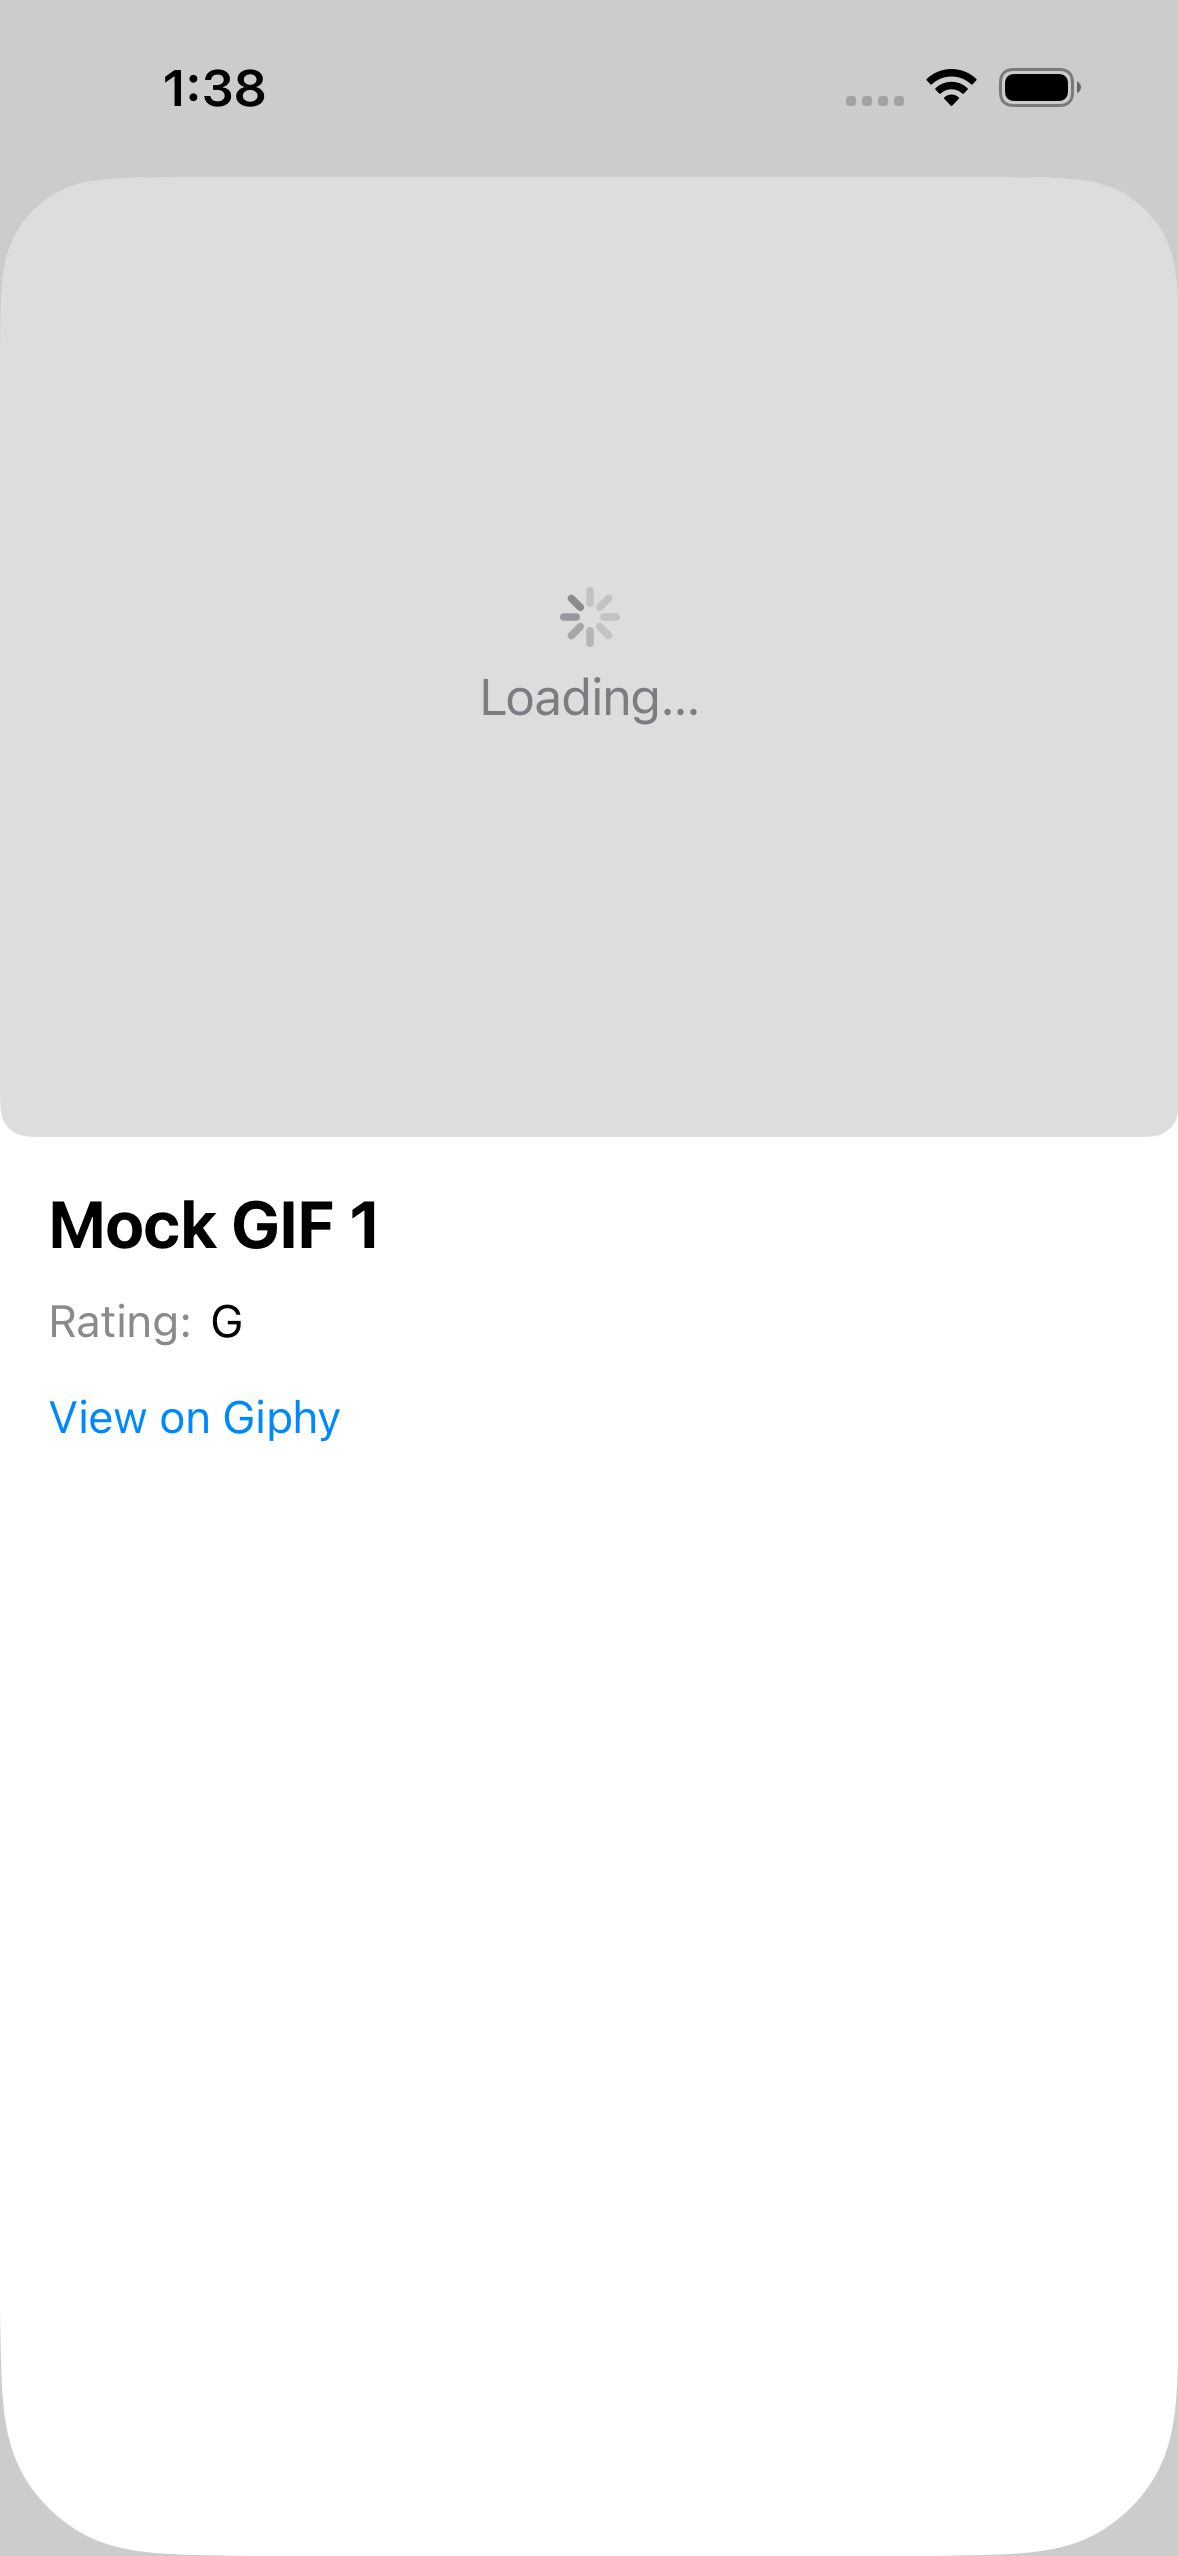
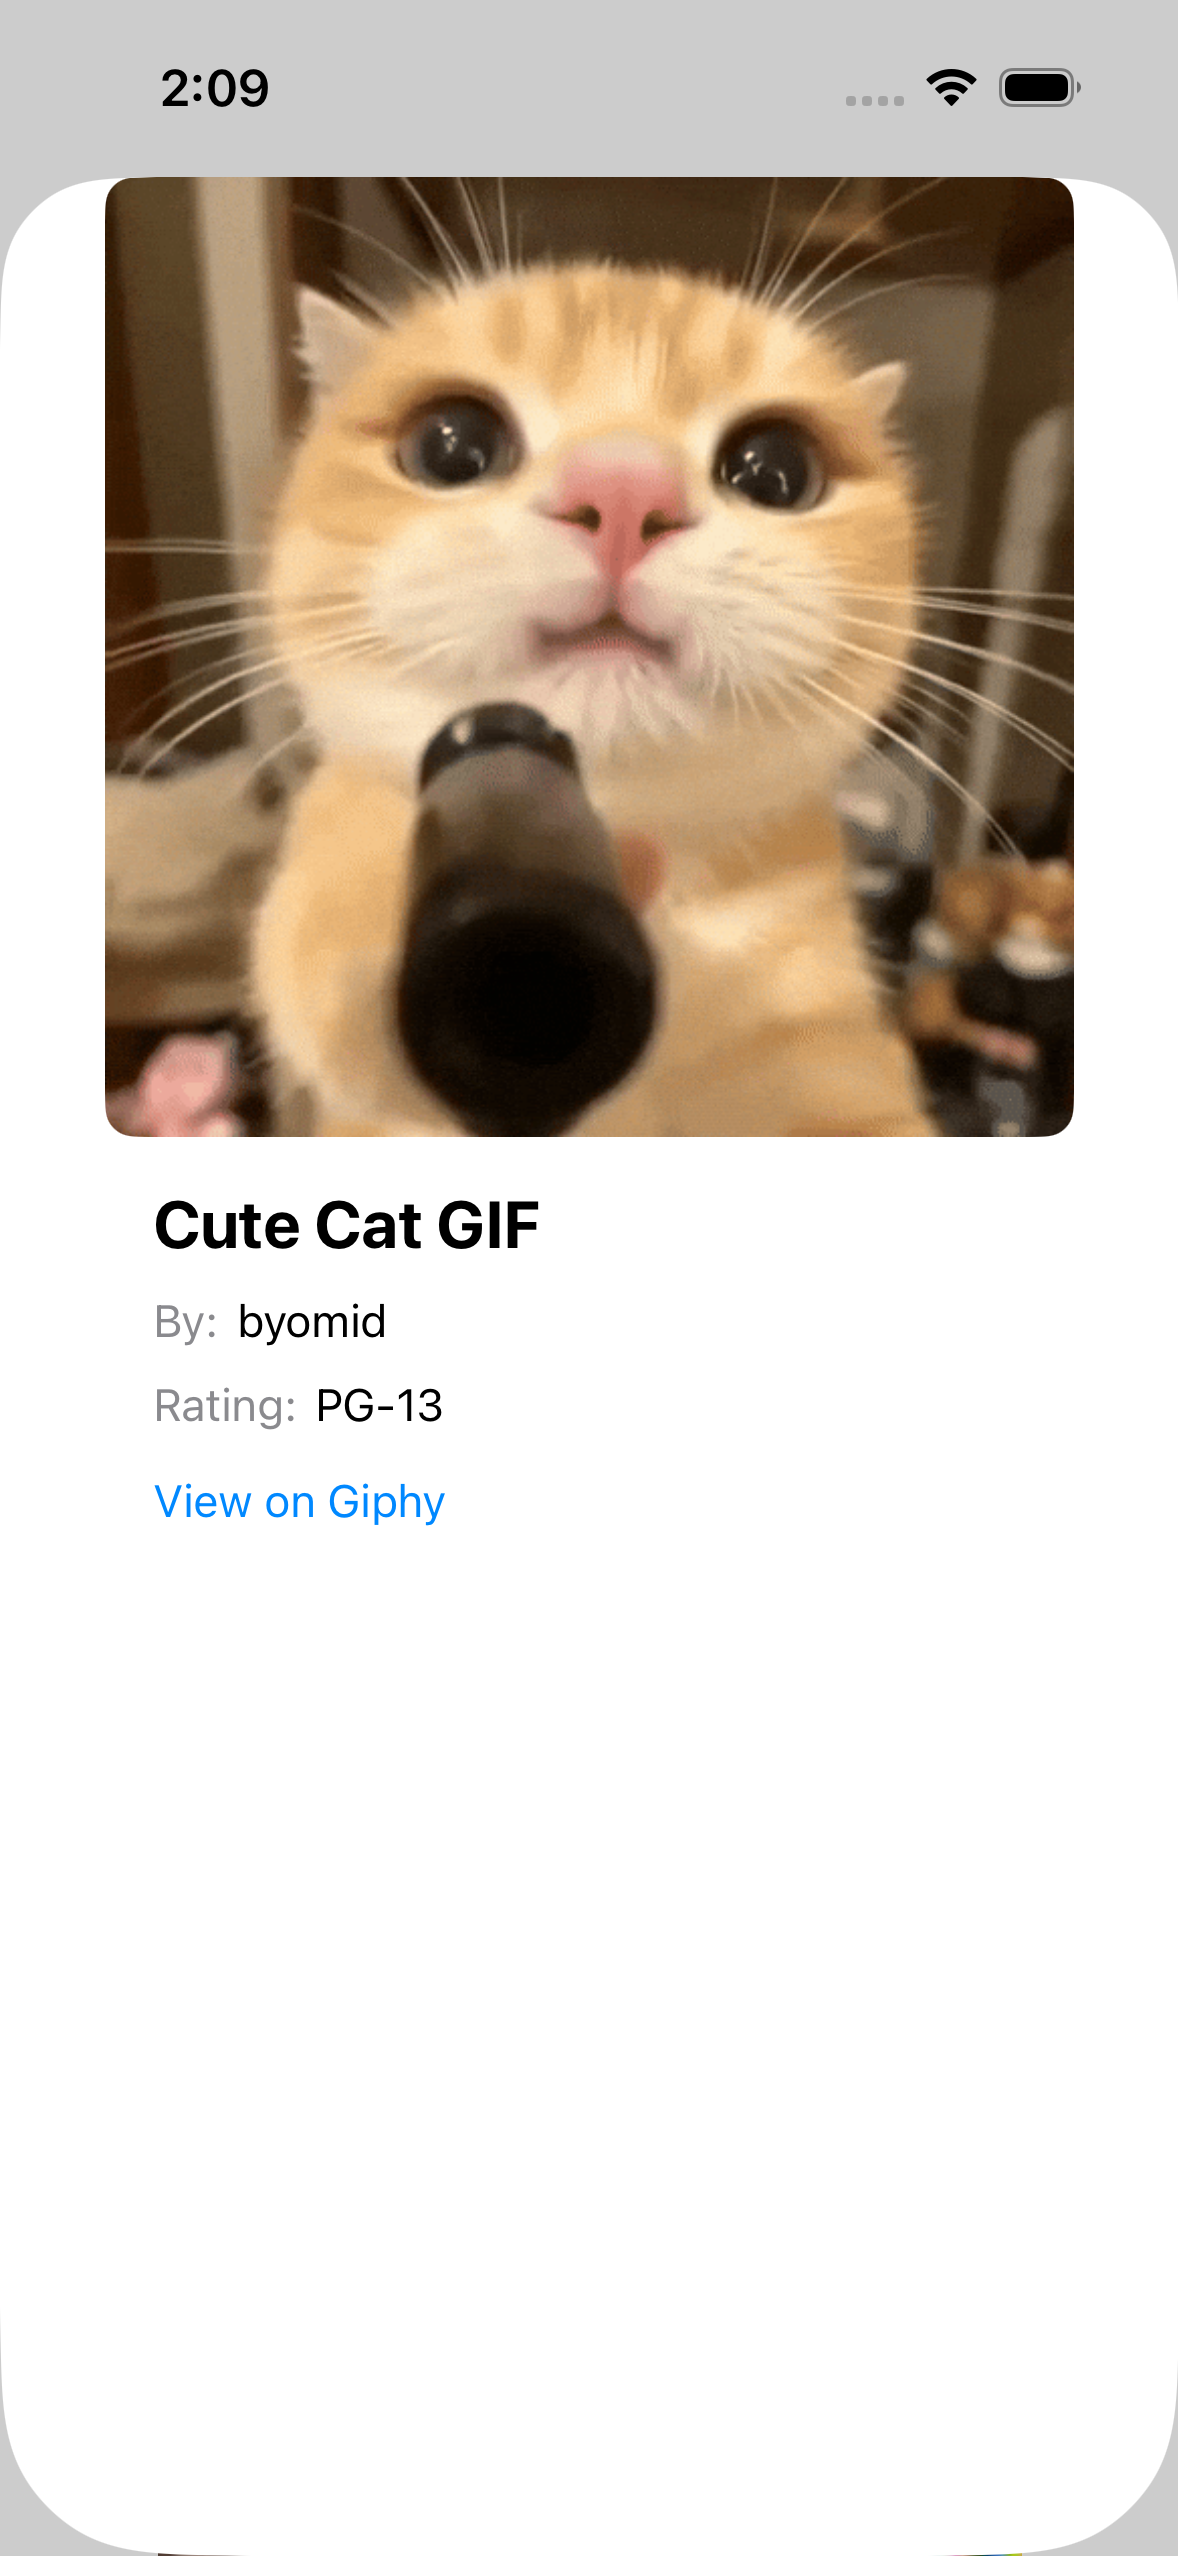
feat: real-API screenshots (cat search); keyboard dismiss fix; AUTO_SEARCH seam

diff --git a/Examples/GiphyDemoApp-iOS/Screenshots/GiphyDemoScreenshots.swift b/Examples/GiphyDemoApp-iOS/Screenshots/GiphyDemoScreenshots.swift
@@ -2,12 +2,17 @@ import XCTest
 
 final class GiphyDemoScreenshots: XCTestCase {
 
+    private let apiKey = "nxQrYdLrix5EyywZom3K9BrITqiY7XXd"
+    private let searchTerm = "cat"
+
     let app = XCUIApplication()
 
     override func setUpWithError() throws {
         continueAfterFailure = false
         // Disable animations so the UI settles instantly.
         app.launchArguments += ["-UIAnimationDragCoefficient", "0"]
+        // Inject live API key so DemoViewModel reads it from ProcessInfo.environment.
+        app.launchEnvironment["GIPHY_API_KEY"] = apiKey
     }
 
     // MARK: - Helpers
@@ -21,37 +26,58 @@ final class GiphyDemoScreenshots: XCTestCase {
         print("📸 \(name)")
     }
 
+    /// Type into the search field, tap Search, and dismiss the keyboard.
+    private func searchFor(_ term: String) {
+        let searchField = app.textFields["search_field"]
+        XCTAssert(searchField.waitForExistence(timeout: 5))
+        searchField.tap()
+        searchField.typeText(term)
+        app.buttons["search_button"].tap()
+        // Dismiss keyboard so it doesn't appear in the screenshot.
+        if app.keyboards.firstMatch.exists {
+            app.tap()
+        }
+    }
+
     // MARK: - Screenshots
 
-    /// Capture the empty state (no API key configured).
-    func testEmptyState() throws {
+    /// Capture the trending GIF grid that loads automatically on launch.
+    func testTrendingGrid() throws {
         app.launch()
         _ = app.navigationBars["Giphy Demo"].waitForExistence(timeout: 5)
-        save("ios_empty_state")
+        // Trending loads automatically — wait up to 30s for the first cell.
+        let firstCell = app.buttons.matching(identifier: "gif_cell").firstMatch
+        let appeared = firstCell.waitForExistence(timeout: 30)
+        if appeared { sleep(8) } // let thumbnails download
+        save("ios_trending_grid")
+        XCTAssert(appeared, "Trending GIF cells did not appear")
     }
 
-    /// Capture the GIF grid populated by MOCK_GIFS (no network needed).
-    func testGIFGrid() throws {
-        app.launchEnvironment["MOCK_GIFS"] = "1"
+    /// Search for "\(searchTerm)" and capture the results grid.
+    func testSearchResults() throws {
         app.launch()
         _ = app.navigationBars["Giphy Demo"].waitForExistence(timeout: 5)
-
-        let firstCell = app.scrollViews.firstMatch.buttons.firstMatch
-        XCTAssert(firstCell.waitForExistence(timeout: 5), "Mock GIF cells did not appear")
-        sleep(2)
-        save("ios_gif_grid")
+        searchFor(searchTerm)
+        let firstCell = app.buttons.matching(identifier: "gif_cell").firstMatch
+        let appeared = firstCell.waitForExistence(timeout: 30)
+        if appeared { sleep(8) } // let thumbnails download
+        save("ios_search_results")
+        XCTAssert(appeared, "Search result cells did not appear")
     }
 
-    /// Capture the GIF detail sheet by tapping the first mock cell.
+    /// Open the detail sheet for the first search result.
     func testGIFDetail() throws {
-        app.launchEnvironment["MOCK_GIFS"] = "1"
         app.launch()
         _ = app.navigationBars["Giphy Demo"].waitForExistence(timeout: 5)
-
-        let firstCell = app.scrollViews.firstMatch.buttons.firstMatch
-        XCTAssert(firstCell.waitForExistence(timeout: 5), "Mock GIF cells did not appear")
-        firstCell.tap()
-        sleep(2)
+        searchFor(searchTerm)
+        let firstCell = app.buttons.matching(identifier: "gif_cell").firstMatch
+        let appeared = firstCell.waitForExistence(timeout: 30)
+        if appeared {
+            sleep(8) // let thumbnails download
+            firstCell.tap()
+            sleep(10) // let original GIF download
+        }
         save("ios_gif_detail")
+        XCTAssert(appeared, "Search result cells did not appear")
     }
 }

diff --git a/Examples/GiphyDemoApp/ContentView.swift b/Examples/GiphyDemoApp/ContentView.swift
@@ -6,6 +6,7 @@ import AWGiphyServices
 struct ContentView: View {
 
     @State private var viewModel = DemoViewModel()
+    @FocusState private var searchFocused: Bool
 
     var body: some View {
         NavigationStack {
@@ -19,7 +20,11 @@ struct ContentView: View {
             .navigationTitle("Giphy Demo")
             .onAppear {
                 if viewModel.gifs.isEmpty {
-                    viewModel.loadTrending()
+                    if viewModel.showTrending {
+                        viewModel.loadTrending()
+                    } else {
+                        viewModel.search()
+                    }
                 }
             }
         }
@@ -54,9 +59,16 @@ struct ContentView: View {
             TextField("Search GIFs…", text: $viewModel.searchText)
                 .textFieldStyle(.roundedBorder)
                 .accessibilityIdentifier("search_field")
-                .onSubmit { viewModel.search() }
+                .focused($searchFocused)
+                .onSubmit {
+                    searchFocused = false
+                    viewModel.search()
+                }
 
-            Button("Search") { viewModel.search() }
+            Button("Search") {
+                searchFocused = false
+                viewModel.search()
+            }
                 .accessibilityIdentifier("search_button")
                 .disabled(viewModel.searchText.isEmpty || viewModel.isLoading)
 

diff --git a/Examples/GiphyDemoApp/GIFGridView.swift b/Examples/GiphyDemoApp/GIFGridView.swift
@@ -14,6 +14,7 @@ struct GIFGridView: View {
             LazyVGrid(columns: columns, spacing: 8) {
                 ForEach(viewModel.gifs) { gif in
                     GIFThumbnailView(gif: gif, viewModel: viewModel)
+                        .accessibilityIdentifier("gif_cell")
                         .onAppear {
                             if gif.id == viewModel.gifs.last?.id {
                                 viewModel.loadNextPage()

diff --git a/Examples/GiphyDemoApp/DemoViewModel.swift b/Examples/GiphyDemoApp/DemoViewModel.swift
@@ -39,6 +39,9 @@ import AWGiphyServices
         let env = ProcessInfo.processInfo.environment
         if env["MOCK_GIFS"] != nil {
             gifs = DemoViewModel.mockGIFs
+        } else if let term = env["AUTO_SEARCH"], !term.isEmpty {
+            searchText = term
+            showTrending = false
         }
         #endif
     }

diff --git a/scripts/extract_screenshots.py b/scripts/extract_screenshots.py
@@ -56,7 +56,8 @@ for meta in metas:
         if not os.path.exists(src):
             continue
         # Skip XCTest-internal attachments.
-        if name.startswith('kXCTAttachment') or name.startswith('App UI hierarchy'):
+        if name.startswith('kXCTAttachment') or name.startswith('App UI hierarchy') \
+                or name.startswith('Debug description'):
             continue
         fname = name if name.endswith('.png') else name + '.png'
         shutil.copy2(src, os.path.join(OUT, fname))

diff --git a/README.md b/README.md
@@ -111,15 +111,15 @@ A demo app under `Examples/` exercises all four `AWGiphyPhotosProtocol` methods.
 
 #### iOS
 
-| Empty state | GIF grid | GIF detail |
-|:-----------:|:---------:|:----------:|
-| <img src="screenshots/ios/ios_empty_state.png" width="220"> | <img src="screenshots/ios/ios_gif_grid.png" width="220"> | <img src="screenshots/ios/ios_gif_detail.png" width="220"> |
+| Trending | Search results | GIF detail |
+|:--------:|:--------------:|:----------:|
+| <img src="screenshots/ios/ios_trending_grid.png" width="220"> | <img src="screenshots/ios/ios_search_results.png" width="220"> | <img src="screenshots/ios/ios_gif_detail.png" width="220"> |
 
 #### macOS
 
-| GIF grid | GIF detail |
-|:--------:|:----------:|
-| <img src="screenshots/macos/macos_gif_grid.png" width="340"> | <img src="screenshots/macos/macos_gif_detail.png" width="340"> |
+| Search results | GIF detail |
+|:--------------:|:----------:|
+| <img src="screenshots/macos/macos_search_results.png" width="340"> | <img src="screenshots/macos/macos_gif_detail.png" width="340"> |
 
 ### Running on macOS
 
